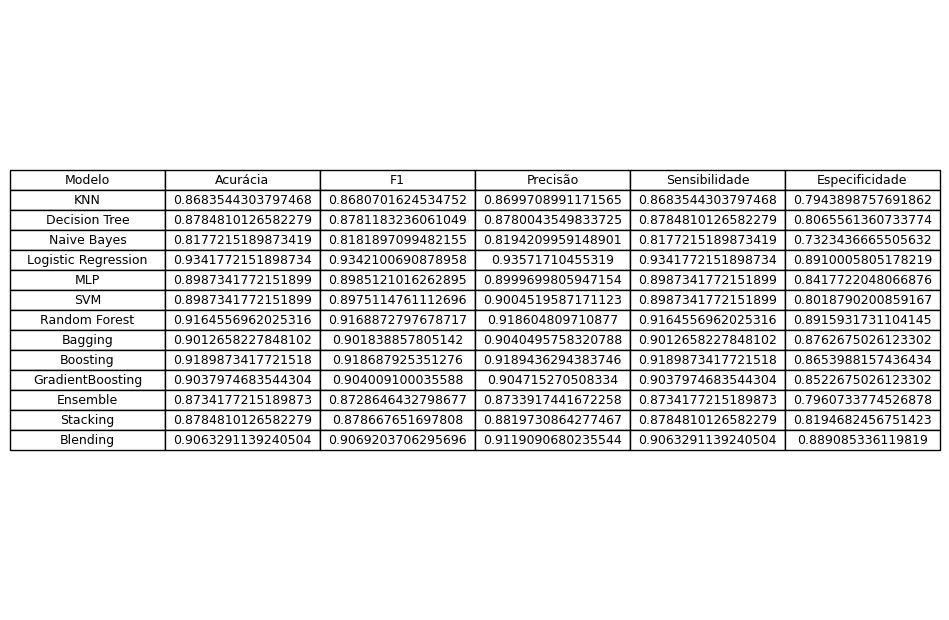
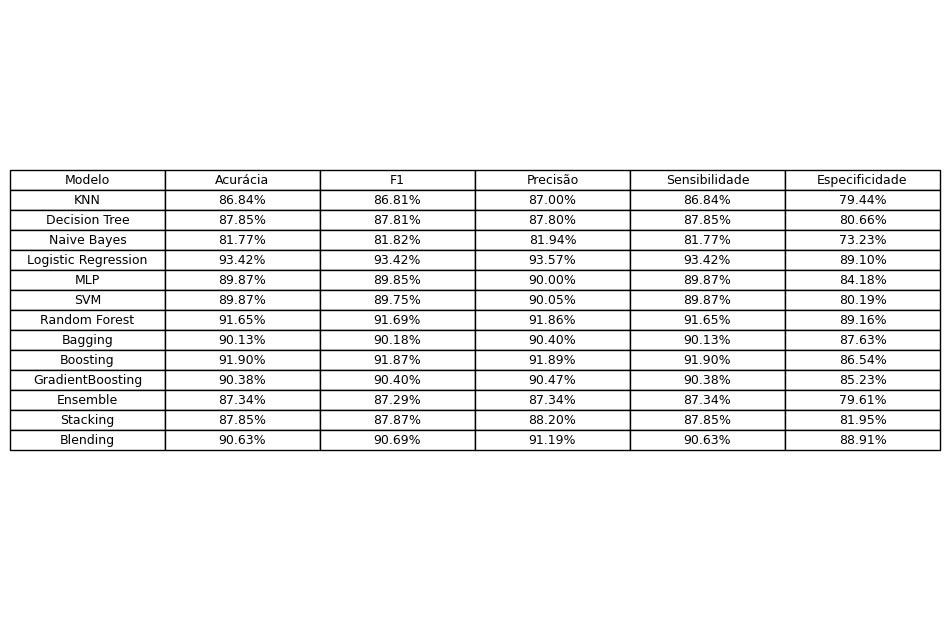
Colocando as %

Changed region(s): [[0.5195, 0.3065, 0.9779, 0.7355], [0.1834, 0.3065, 0.4889, 0.7355]]

diff --git a/cvs_to_tables.py b/cvs_to_tables.py
@@ -5,6 +5,15 @@ def csv_to_table_image(csv_file, output_file):
     # Lê o CSV
     df = pd.read_csv(csv_file)
 
+    # Converte valores numéricos entre 0 e 1 para %
+    for col in df.columns:
+        if pd.api.types.is_numeric_dtype(df[col]):
+            # multiplica apenas se todos os valores estiverem no intervalo [0,1]
+            if ((df[col] >= 0) & (df[col] <= 1)).all():
+                df[col] = df[col].apply(lambda x: f"{x*100:.2f}%")
+            else:
+                df[col] = df[col].apply(lambda x: f"{x:.2f}" if isinstance(x, (int, float)) else x)
+
     # Cria figura
     fig, ax = plt.subplots(figsize=(10, len(df)*0.6))  # ajusta altura conforme nº linhas
     ax.axis("off")
